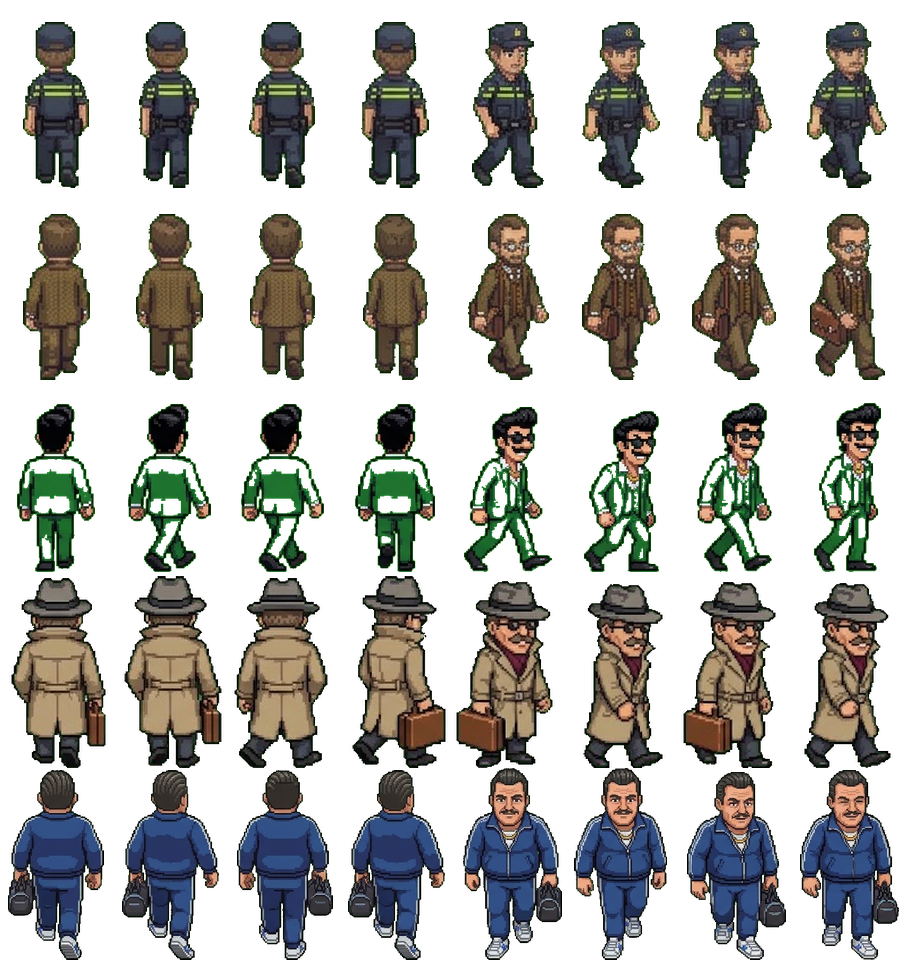
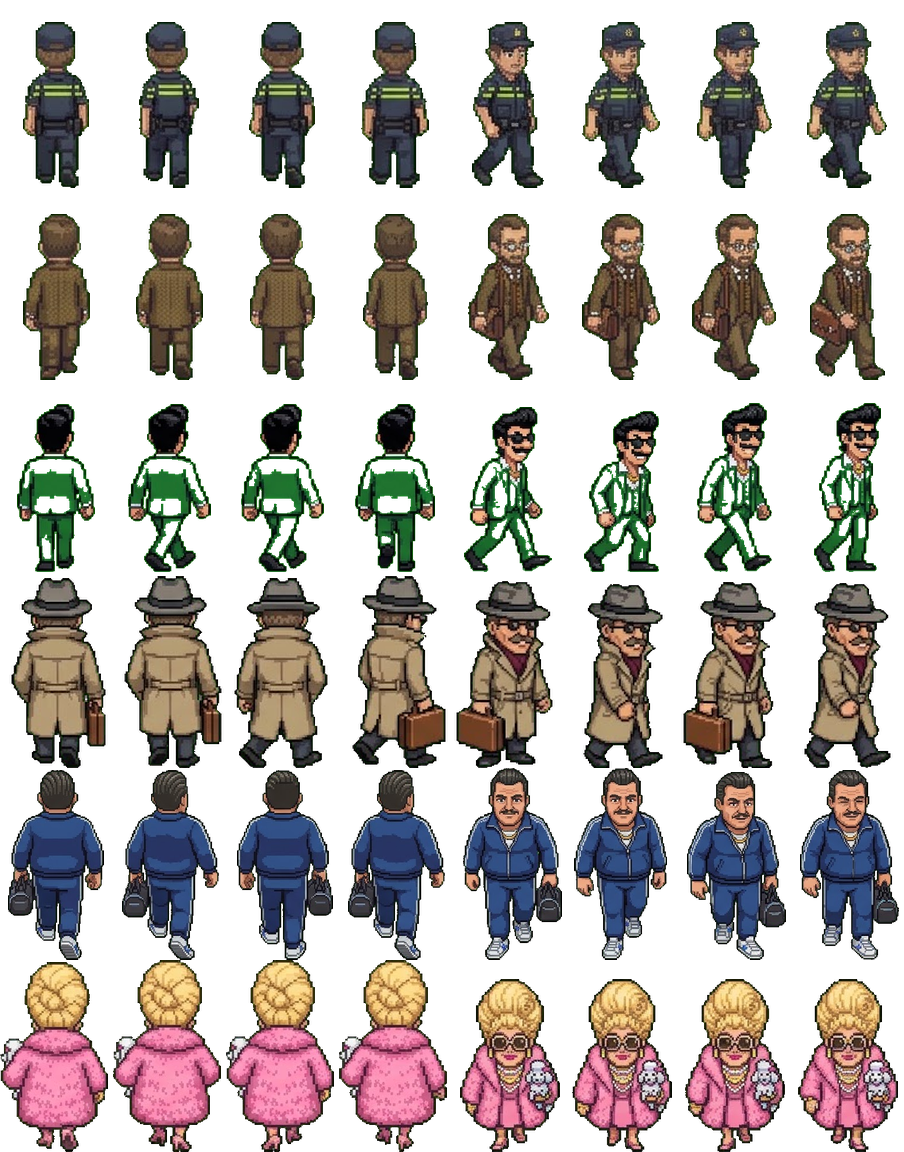
Pizzabaas: Gravin Gloria van Glitterstein komt echt binnen (eigen figuur en portret)
Claude-Session: https://claude.ai/code/session_01A1NZDKEqH4AvFTuhgNYDbP

diff --git a/pizzabaas.html b/pizzabaas.html
@@ -66,7 +66,7 @@
   #vraagkaart { text-align: center; max-width: 400px; animation: plop .25s ease-out; }
   @keyframes plop { from { transform: scale(.7); opacity: 0; } }
   .vraagik { font-size: 54px; line-height: 1.1; }
-  .portret { width: 85px; height: 155px; margin: -6px auto 0; background: url(pizza/portretten.png) 0 0 / 510px 155px no-repeat; image-rendering: pixelated; } /* agent, inspecteur (uit pizza/agent-gemini.jpg, pizza/inspecteur-gemini.jpg) */
+  .portret { width: 85px; height: 155px; margin: -6px auto 0; background: url(pizza/portretten.png) 0 0 / 595px 155px no-repeat; image-rendering: pixelated; } /* agent, inspecteur (uit pizza/agent-gemini.jpg, pizza/inspecteur-gemini.jpg) */
   .vraagwie { font-weight: 800; color: #b5381c; font-size: 15px; }
   .vraagtekst { font-size: 17px; margin: 8px 0 12px; }
   .antwoord { display: block; width: 100%; text-align: left; border: 0; background: #f1e1c4; color: #3a2414; border-radius: 12px; padding: 10px 12px; margin: 7px 0 0; font: 600 15px system-ui, sans-serif; cursor: pointer; }
@@ -1004,7 +1004,7 @@ const VRAGEN = [
     a: [['Ik ben ermee bezig.', () => '"Uitstekend." Hij tikt tegen zijn hoed en eet zijn pizza.'],
       ['Wat betalen ze het liefst?', () => { if (S.opdracht) S.opdracht.prijs += 50; return `"Voor de ${S.opdracht ? SCHILDERIJEN[S.opdracht.v] : 'Zonnebloemen'} betalen ze vijftig euro extra." (De bestelling is € 50 meer waard.)`; }],
       ['Kunt u mij leren schilderen?', () => '"De kunst is: niet te netjes. Echte meesters trilden ook." Hij knipoogt.'] ] },
-  { id: 'gravin', ik: '💎', wie: 'Gravin Gloria van Glitterstein', kans: 5, als: () => !S.zaak && S.achterkamer && (S.vervalsingen || []).some((f) => f.dag < S.dag),
+  { id: 'gravin', ik: '💎', portret: 6, rij: 5, wie: 'Gravin Gloria van Glitterstein', kans: 5, als: () => !S.zaak && S.achterkamer && (S.vervalsingen || []).some((f) => f.dag < S.dag),
     vraag: () => `Een dame in een roze bontjas, met hondje Fifi onder haar arm, schrijdt binnen. "Daaarling! Ik hoorde dat u… kunst heeft. De ${SCHILDERIJEN[droog().v]}? Ik betaal het dubbele van die saaie Gerrit. Maar alleen voor échte kwaliteit!"`,
     a: [['Hij is voor u, gravin.', () => { const f = droog(); S.vervalsingen = (S.vervalsingen || []).filter((x) => x != f);
         const besteld = S.opdracht && S.opdracht.v == f.v, prijs = Math.round((besteld ? S.opdracht.prijs : 150) * (0.25 + 0.75 * f.q) * 2);

diff --git a/pizza/CLAUDE.md b/pizza/CLAUDE.md
@@ -181,5 +181,4 @@ als Gerrit of Barrie je meeneemt telt dat ook als het bezoek van die dag. Onderi
 Vragen (27 okt): nu 66, o.a. kokjarig, tiktok, vegan, blinddate, haring, wielrenners, snurk, goochelaar, supermarkt, patat, schoolreis, kat,
 wachtwoord, aanzoek, bierfiets, nonna; meer praatwolkjes in `ZEG` en `LEKKER`. Gerrit komt ook zomaar langs ('gerritlangs', tip: bestelling
 +€50). Gravin Gloria van Glitterstein ('gravin', kunstverzamelaar, roze bontjas, hondje Fifi): als er een droge vervalsing ligt, biedt ze het
-dubbele van Gerrit, maar alleen bij q ≥ 0,7; anders "NEP!" (populariteit −4 en de kunstrechercheur komt: `S.verplicht`). Nog zonder
-plaatje (emoji 💎); met een Gemini-vel wordt ze een bezoeker (portret 6, rij 5).
+dubbele van Gerrit, maar alleen bij q ≥ 0,7; anders "NEP!" (populariteit −4 en de kunstrechercheur komt: `S.verplicht`). Bezoeker rij 5 in `pizza/bezoekers.png`, portret 6 (uit `pizza/gravin-gemini.jpg`).
